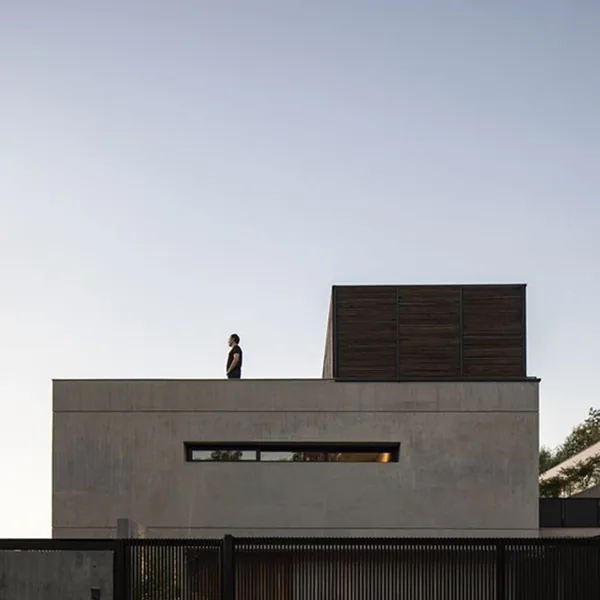
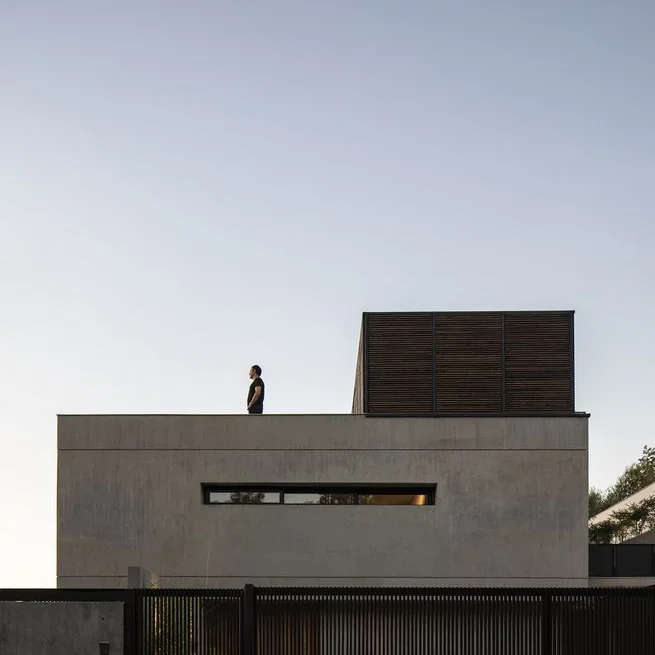
Art-directed images: desktop and mobile crops from Figma originals
- Crops cut from original image fills by Figma imageTransform (no upscaling)
- Story small photo and About CTA: separate desktop crop
- Why: mobile framing 12%, desktop centered (as in layout)
- Home hero, Do, Story, Contact: exact crops, lighter files

diff --git a/components/motion/ModularImage.tsx b/components/motion/ModularImage.tsx
@@ -6,13 +6,19 @@ import { EASE_IN_OUT, EASE_OUT_EXPO } from "./config";
 const COLS = 5;
 const ROWS = 4;
 
-type Props = { src: string; alt?: string; className?: string };
+type Props = {
+  src: string;
+  /** Кадр для десктопа (≥1024), если в макете он отличается от мобильного */
+  srcDesktop?: string;
+  alt?: string;
+  className?: string;
+};
 
 /**
  * Картинка «собирается из модулей»: сетка плашек цвета фона
  * схлопывается и проворачивается по диагонали, открывая кадр.
  */
-export default function ModularImage({ src, alt = "", className }: Props) {
+export default function ModularImage({ src, srcDesktop, alt = "", className }: Props) {
   return (
     <motion.div
       className={className}
@@ -21,15 +27,18 @@ export default function ModularImage({ src, alt = "", className }: Props) {
       whileInView="visible"
       viewport={{ once: true, amount: 0.4 }}
     >
-      <motion.img
-        src={src}
-        alt={alt}
-        style={{ width: "100%" }}
-        variants={{
-          hidden: { scale: 1.25 },
-          visible: { scale: 1, transition: { duration: 2.2, ease: EASE_OUT_EXPO } },
-        }}
-      />
+      <picture>
+        {srcDesktop && <source media="(min-width: 1024px)" srcSet={srcDesktop} />}
+        <motion.img
+          src={src}
+          alt={alt}
+          style={{ width: "100%" }}
+          variants={{
+            hidden: { scale: 1.25 },
+            visible: { scale: 1, transition: { duration: 2.2, ease: EASE_OUT_EXPO } },
+          }}
+        />
+      </picture>
       <div
         aria-hidden="true"
         style={{

diff --git a/components/about/Story.tsx b/components/about/Story.tsx
@@ -20,7 +20,7 @@ export default function Story() {
                 <BlurReveal className={s.subtext}>Our approach combines the flexibility of modular architecture with the character and permanence of a carefully designed home. Every configuration begins with the same principle: make space for the life that happens inside it.</BlurReveal>
             </div>
             <div className={`container ${s.bottom}`}>
-                <ModularImage className={s.imageSm} alt="Concrete modular home" src="/about/story-sm.webp" />
+                <ModularImage className={s.imageSm} alt="Concrete modular home" src="/about/story-sm.webp" srcDesktop="/about/story-sm-desktop.webp" />
                 <div className={s.btnWrap}>
                     <RollButton
                         href="/#approach"

diff --git a/components/contact/Hero.tsx b/components/contact/Hero.tsx
@@ -23,10 +23,10 @@ const CONTACTS = [
 // Арт-дирекшн: на десктопе в макете другой кадр (909×242), на мобилке — 335×220
 const alt = "Woman on a terrace of a concrete house overlooking the hills"
 const { props: { srcSet: desktop } } = getImageProps({
-    alt, src: "/contact/image-desktop.jpg", width: 1568, height: 418, sizes: "50vw",
+    alt, src: "/contact/image-desktop.webp", width: 667, height: 141, sizes: "50vw",
 })
 const { props: { srcSet: mobile, ...img } } = getImageProps({
-    alt, src: "/contact/image.webp", width: 1005, height: 660, sizes: "100vw",
+    alt, src: "/contact/image.webp", width: 667, height: 438, sizes: "100vw",
 })
 
 /**

diff --git a/components/about/Why.module.css b/components/about/Why.module.css
@@ -157,7 +157,8 @@
     position: absolute;
     inset: 0;
     background-image: linear-gradient(rgba(0, 0, 0, 0.2), rgba(0, 0, 0, 0.2)), url("/about/why.webp");
-    background-position: left;
+    /* Мобилка: кадр как в макете (левая часть фото), десктоп — по центру */
+    background-position: 12% center;
     background-repeat: no-repeat;
     background-size: cover;
     will-change: transform;
@@ -354,5 +355,11 @@
 
     .slide {
         text-align: justify;
+    }
+}
+
+@media (min-width: 1024px) {
+    .bg {
+        background-position: center;
     }
 }

diff --git a/components/about/Form.module.css b/components/about/Form.module.css
@@ -130,7 +130,7 @@
 
     .bg {
         background-image: linear-gradient(rgba(0, 0, 0, 0.2), rgba(0, 0, 0, 0.2)), url("/about/form-desktop.webp");
-        background-position: center 57%;
+        background-position: center;
     }
 
     .container {
